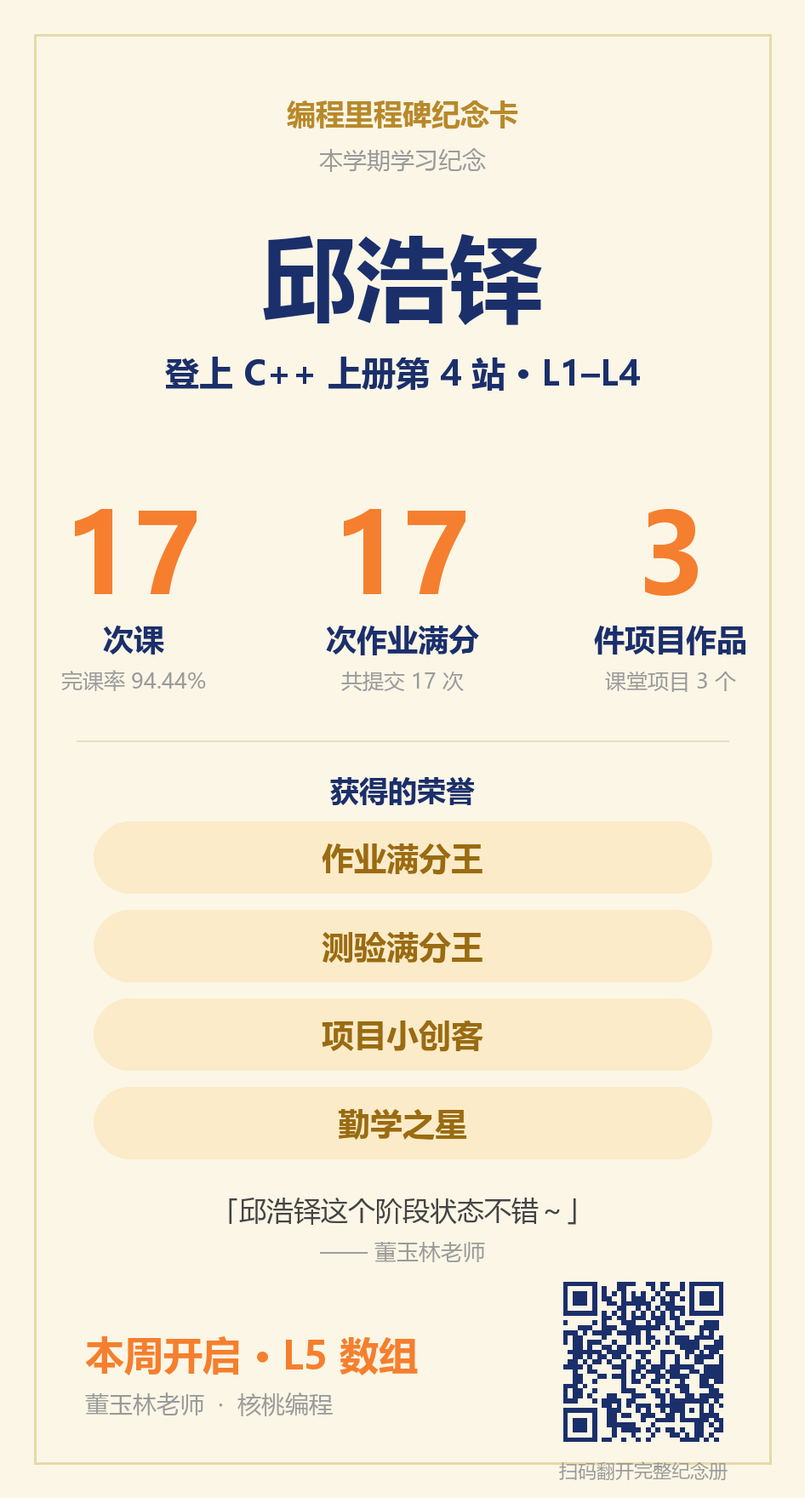
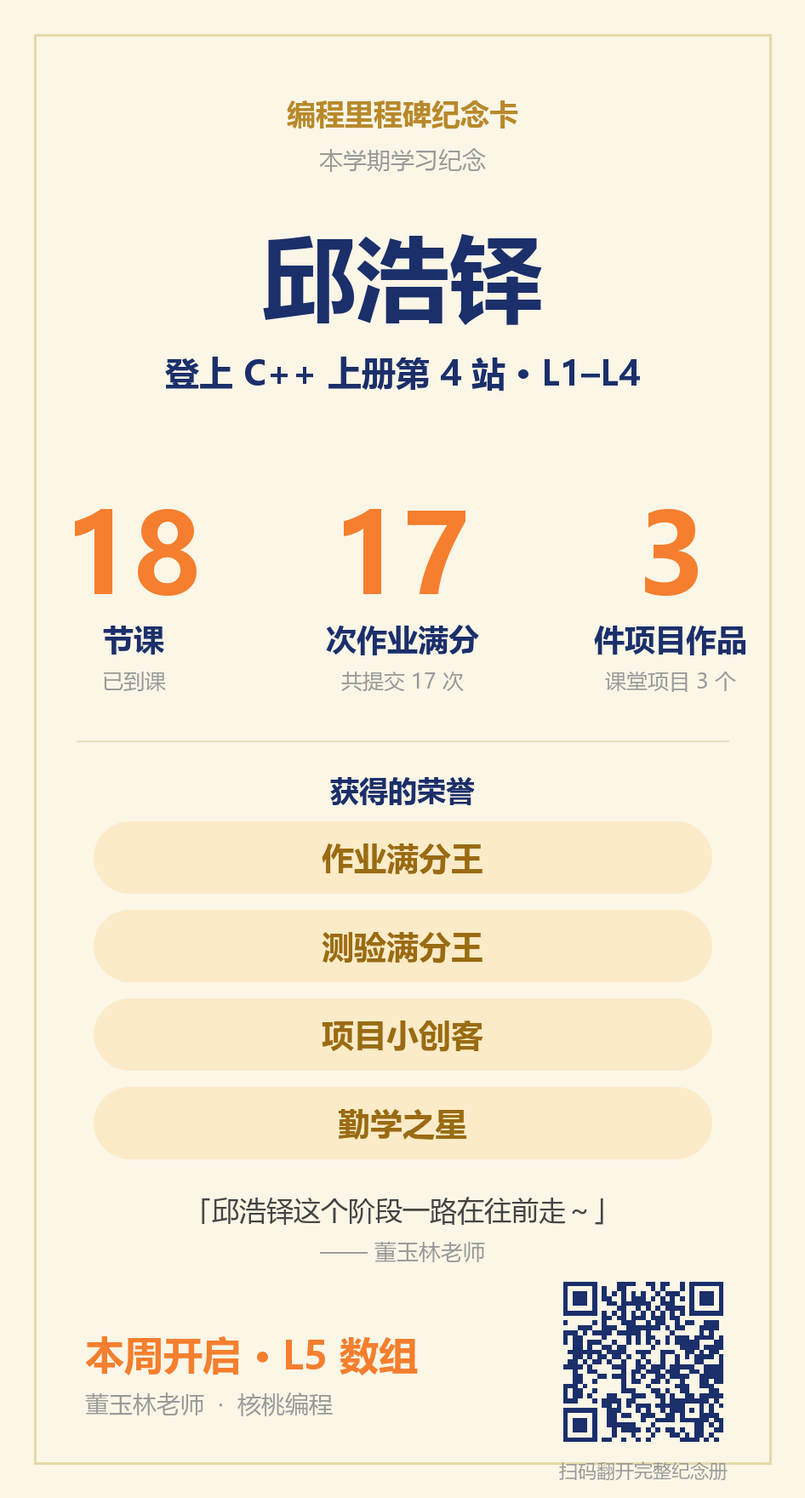
有未完课的学员改为展示到课：不再显示完课率和完成节数
老师的话改为「N 节课都已经到课，其中有 X 次作业拿到了满分，还亲手做了 Y 个编程项目作品」，封面、课堂足迹和纪念卡同步改为「N 节课 · 已到课」。

Changed region(s): [[0.2452, 0.7812, 0.7051, 0.8125], [0.092, 0.3438, 0.2452, 0.4688]]

diff --git a/24dc97a574/index.html b/24dc97a574/index.html
@@ -40,15 +40,15 @@ h2{font-size:28px;line-height:1.3;font-weight:800;margin-bottom:12px}
 <div class="sub" style="color:var(--gold);margin:0 0 12px">致 邱浩铎 的爸爸妈妈</div>
 <h1>邱浩铎的<br>第一个<em>编程里程碑</em></h1><div class="rule"></div>
 <div class="sub" style="margin:0">本学期学习纪念</div>
-<div class="stats"><div class="stat"><b>17</b><span>次课完成</span></div><div class="stat"><b>4</b><span>个单元</span></div><div class="stat"><b>3</b><span>件项目作品</span></div></div>
+<div class="stats"><div class="stat"><b>18</b><span>节课已到课</span></div><div class="stat"><b>4</b><span>个单元</span></div><div class="stat"><b>3</b><span>件项目作品</span></div></div>
 <div class="sub" style="margin-top:28px"><b style="color:#fff">董玉林老师</b><br>为邱浩铎整理了这段学习时光</div><div class="hint">上滑翻开 ⌄</div></section><section class="page"><div class="tag">01</div><div class="no">01 · 一路走来</div>
 <h2>邱浩铎的<br>课堂足迹</h2><div class="sub">每一格是一节课：金色＝作业满分，橙色＝已提交，虚线＝到课。</div>
 <div class="grid"><div class="dot g">L1·1<small>满分</small></div><div class="dot g">L1·2<small>满分</small></div><div class="dot g">L1·3<small>满分</small></div><div class="dot g">L1·4<small>满分</small></div><div class="dot g">L2·1<small>满分</small></div><div class="dot g">L2·2<small>满分</small></div><div class="dot g">L2·3<small>满分</small></div><div class="dot g">L2·4<small>满分</small></div><div class="dot g">L2·5<small>满分</small></div><div class="dot g">L3·1<small>满分</small></div><div class="dot g">L3·2<small>满分</small></div><div class="dot g">L3·4<small>满分</small></div><div class="dot g">L3·5<small>满分</small></div><div class="dot g">L3·6<small>满分</small></div><div class="dot g">L4·1<small>满分</small></div><div class="dot">L4·2<small>到课</small></div><div class="dot g">L4·3<small>满分</small></div><div class="dot g">L4·4<small>满分</small></div></div>
 <div class="legend"><span>🟨 满分</span><span>🟧 已提交</span><span>⬜ 到课</span></div>
-<div class="stats"><div class="stat"><b>17</b><span>次课完成<br>完课率 94.44%</span></div><div class="stat"><b>17</b><span>份作业满分<br>共提交 17 份</span></div><div class="stat"><b>22</b><span>小时<br>累计学习</span></div></div><div class="hint">⌄</div></section><section class="page"><div class="tag">02</div><div class="no">02 · 学会的本领</div><h2>学会的4项<br>新本领</h2><div class="card"><i>💬</i><div><b>让电脑按步骤「开口说话」</b><p>写下一行行指令，电脑就照着顺序执行、把结果显示出来</p></div></div><div class="card"><i>🔀</i><div><b>让程序自己做判断</b><p>「如果……就……否则……」，程序会根据情况自己选择</p></div></div><div class="card"><i>🔁</i><div><b>让电脑重复做事</b><p>一句循环，电脑就能做 100 遍也不嫌累——编程最神奇的地方</p></div></div><div class="card"><i>🧮</i><div><b>让电脑记住一排数据</b><p>用数组一次存下很多数，再逐个处理，是通往算法的第一步</p></div></div><div class="hint">⌄</div></section><section class="page"><div class="tag">03</div><div class="no">03 · 动手实践</div><h2>作业、测验<br>和项目</h2>
+<div class="stats"><div class="stat"><b>18</b><span>节课<br>已到课</span></div><div class="stat"><b>17</b><span>份作业满分<br>共提交 17 份</span></div><div class="stat"><b>22</b><span>小时<br>累计学习</span></div></div><div class="hint">⌄</div></section><section class="page"><div class="tag">02</div><div class="no">02 · 学会的本领</div><h2>学会的4项<br>新本领</h2><div class="card"><i>💬</i><div><b>让电脑按步骤「开口说话」</b><p>写下一行行指令，电脑就照着顺序执行、把结果显示出来</p></div></div><div class="card"><i>🔀</i><div><b>让程序自己做判断</b><p>「如果……就……否则……」，程序会根据情况自己选择</p></div></div><div class="card"><i>🔁</i><div><b>让电脑重复做事</b><p>一句循环，电脑就能做 100 遍也不嫌累——编程最神奇的地方</p></div></div><div class="card"><i>🧮</i><div><b>让电脑记住一排数据</b><p>用数组一次存下很多数，再逐个处理，是通往算法的第一步</p></div></div><div class="hint">⌄</div></section><section class="page"><div class="tag">03</div><div class="no">03 · 动手实践</div><h2>作业、测验<br>和项目</h2>
 <div class="card"><i>⌨</i><div><b>17 份课后作业</b><p>其中 17 份拿到满分，每一份都有老师批改反馈。</p></div></div>
 <div class="card"><i>💯</i><div><b>随堂测验</b><p>17 次随堂测验中，首次满分 <b>5</b> 次</p></div></div><div class="card"><i>🧩</i><div><b>3 个课堂项目作品</b><p>在 L1–L4 的项目环节里，亲手把想法做成了能运行的作品。</p></div></div>
-<div class="card"><i>💬</i><div><b>课堂互动 200 条</b><p>连麦接通 17 次，班内互动第 4。</p></div></div><div class="hint">⌄</div></section><section class="page"><div class="tag">04</div><div class="no">04 · 荣誉</div><h2>获得的荣誉</h2><div class="pills"><div class="pill gold"><b>⌨ 作业满分王</b><span>17 份课后作业，全部满分</span></div><div class="pill "><b>💯 测验满分王</b><span>17 次随堂测验，5 次首次满分</span></div><div class="pill "><b>🛠 项目小创客</b><span>亲手完成 3 个课堂项目作品</span></div><div class="pill "><b>⏱ 勤学之星</b><span>累计学习 22.0 小时，班内第 3</span></div></div><div class="sub">荣誉依据本期学情数据自动评定</div><div class="hint">⌄</div></section><section class="page"><div class="tag">05</div><div class="no">05 · 本周起</div><h2>C++ 学习路线</h2><div class="sub">上册 · 趣味C++Ⅰ · 基础语法　本周起进入 L5</div><div class="route" style="margin-top:20px"><div class="st ok"><b>✓ L1 变量与输出</b><span>已学完</span></div><div class="st ok"><b>✓ L2 条件分支</b><span>已学完</span></div><div class="st ok"><b>✓ L3 嵌套循环</b><span>已学完</span></div><div class="st ok"><b>✓ L4 数组初识</b><span>已学</span></div><div class="st now"><b>L5 数组 · OJ 解题</b><span>📍 本周开始</span></div><div class="st"><b>L6 调试 · 函数</b><span>下一站 · 难点语法 · 算法 · OJ</span></div></div><div class="hint">⌄</div></section><section class="page"><div class="tag">06</div><div class="no">06 · 老师想对您说</div><div class="note"><p>邱浩铎这个阶段状态不错～18 节课里完成了 17 节，基本没有落下。</p><p>17 次课后作业里有 17 次拿到满分、随堂测验首次满分 5 次、还亲手做完了 3 个课堂项目作品，每一步都有老师的批改和反馈👏</p><p>本周起开始学习 L5（数组 · OJ 解题），内容会更有挑战一些，卡住的地方我会盯着，差哪补哪。这条路我陪孩子一起走，有什么想法随时跟我说哈💪</p></div><div class="sign">董玉林老师<span>核桃编程</span></div>
+<div class="card"><i>💬</i><div><b>课堂互动 200 条</b><p>连麦接通 17 次，班内互动第 4。</p></div></div><div class="hint">⌄</div></section><section class="page"><div class="tag">04</div><div class="no">04 · 荣誉</div><h2>获得的荣誉</h2><div class="pills"><div class="pill gold"><b>⌨ 作业满分王</b><span>17 份课后作业，全部满分</span></div><div class="pill "><b>💯 测验满分王</b><span>17 次随堂测验，5 次首次满分</span></div><div class="pill "><b>🛠 项目小创客</b><span>亲手完成 3 个课堂项目作品</span></div><div class="pill "><b>⏱ 勤学之星</b><span>累计学习 22.0 小时，班内第 3</span></div></div><div class="sub">荣誉依据本期学情数据自动评定</div><div class="hint">⌄</div></section><section class="page"><div class="tag">05</div><div class="no">05 · 本周起</div><h2>C++ 学习路线</h2><div class="sub">上册 · 趣味C++Ⅰ · 基础语法　本周起进入 L5</div><div class="route" style="margin-top:20px"><div class="st ok"><b>✓ L1 变量与输出</b><span>已学完</span></div><div class="st ok"><b>✓ L2 条件分支</b><span>已学完</span></div><div class="st ok"><b>✓ L3 嵌套循环</b><span>已学完</span></div><div class="st ok"><b>✓ L4 数组初识</b><span>已学</span></div><div class="st now"><b>L5 数组 · OJ 解题</b><span>📍 本周开始</span></div><div class="st"><b>L6 调试 · 函数</b><span>下一站 · 难点语法 · 算法 · OJ</span></div></div><div class="hint">⌄</div></section><section class="page"><div class="tag">06</div><div class="no">06 · 老师想对您说</div><div class="note"><p>邱浩铎这个阶段一路在往前走～18 节课都已经到课，其中有 17 次作业拿到了满分，还亲手做了 3 个编程项目作品，每一步都有老师的批改和反馈👏</p><p>本周起开始学习 L5（数组 · OJ 解题），内容会更有挑战一些，卡住的地方我会盯着，差哪补哪。这条路我陪孩子一起走，有什么想法随时跟我说哈💪</p></div><div class="sign">董玉林老师<span>核桃编程</span></div>
 <div class="ask">今晚，不妨请邱浩铎给您讲讲：<br><b>「这学期做的项目作品，是怎么做出来的？」</b><br>孩子讲得出来，才是真的学会了。</div><div class="hint">⌄</div></section><section class="page dark final"><div class="tag">07</div><div class="no" style="color:var(--gold)">07 · 留个纪念</div><img src="card.png" alt="纪念卡"><p>长按图片保存 · 发给爷爷奶奶也看看<br><br>邱浩铎，下一站见！ · 核桃编程</p></section></div><script>const w=document.getElementById('wrap'),bar=document.querySelector('.prog i'),ps=[...document.querySelectorAll('.page')];
 w.addEventListener('scroll',()=>{bar.style.width=Math.min(100,(w.scrollTop/(w.scrollHeight-w.clientHeight))*100)+'%'});
 document.addEventListener('keydown',e=>{if(['ArrowDown','ArrowRight',' '].includes(e.key))w.scrollBy(0,innerHeight);if(['ArrowUp','ArrowLeft'].includes(e.key))w.scrollBy(0,-innerHeight)});</script></body></html>

diff --git a/d82af923c9/index.html b/d82af923c9/index.html
@@ -40,15 +40,15 @@ h2{font-size:28px;line-height:1.3;font-weight:800;margin-bottom:12px}
 <div class="sub" style="color:var(--gold);margin:0 0 12px">致 唐嫣茹 的爸爸妈妈</div>
 <h1>唐嫣茹的<br>第一个<em>编程里程碑</em></h1><div class="rule"></div>
 <div class="sub" style="margin:0">本学期学习纪念</div>
-<div class="stats"><div class="stat"><b>14</b><span>次课完成</span></div><div class="stat"><b>4</b><span>个单元</span></div><div class="stat"><b>3</b><span>件项目作品</span></div></div>
+<div class="stats"><div class="stat"><b>17</b><span>节课已到课</span></div><div class="stat"><b>4</b><span>个单元</span></div><div class="stat"><b>3</b><span>件项目作品</span></div></div>
 <div class="sub" style="margin-top:28px"><b style="color:#fff">董玉林老师</b><br>为唐嫣茹整理了这段学习时光</div><div class="hint">上滑翻开 ⌄</div></section><section class="page"><div class="tag">01</div><div class="no">01 · 一路走来</div>
 <h2>唐嫣茹的<br>课堂足迹</h2><div class="sub">每一格是一节课：金色＝作业满分，橙色＝已提交，虚线＝到课。</div>
 <div class="grid"><div class="dot g">L1·1<small>满分</small></div><div class="dot g">L1·2<small>满分</small></div><div class="dot g">L1·3<small>满分</small></div><div class="dot g">L1·4<small>满分</small></div><div class="dot g">L2·1<small>满分</small></div><div class="dot g">L2·2<small>满分</small></div><div class="dot g">L2·3<small>满分</small></div><div class="dot">L2·4<small>到课</small></div><div class="dot g">L3·1<small>满分</small></div><div class="dot g">L3·2<small>满分</small></div><div class="dot g">L3·3<small>满分</small></div><div class="dot g">L3·4<small>满分</small></div><div class="dot g">L3·5<small>满分</small></div><div class="dot">L4·1<small>到课</small></div><div class="dot g">L4·2<small>满分</small></div><div class="dot">L4·3<small>到课</small></div><div class="dot g">L4·4<small>满分</small></div></div>
 <div class="legend"><span>🟨 满分</span><span>🟧 已提交</span><span>⬜ 到课</span></div>
-<div class="stats"><div class="stat"><b>14</b><span>次课完成<br>完课率 77.78%</span></div><div class="stat"><b>14</b><span>份作业满分<br>共提交 14 份</span></div><div class="stat"><b>13.4</b><span>小时<br>累计学习</span></div></div><div class="hint">⌄</div></section><section class="page"><div class="tag">02</div><div class="no">02 · 学会的本领</div><h2>学会的4项<br>新本领</h2><div class="card"><i>💬</i><div><b>让电脑按步骤「开口说话」</b><p>写下一行行指令，电脑就照着顺序执行、把结果显示出来</p></div></div><div class="card"><i>🔀</i><div><b>让程序自己做判断</b><p>「如果……就……否则……」，程序会根据情况自己选择</p></div></div><div class="card"><i>🔁</i><div><b>让电脑重复做事</b><p>一句循环，电脑就能做 100 遍也不嫌累——编程最神奇的地方</p></div></div><div class="card"><i>🧮</i><div><b>让电脑记住一排数据</b><p>用数组一次存下很多数，再逐个处理，是通往算法的第一步</p></div></div><div class="hint">⌄</div></section><section class="page"><div class="tag">03</div><div class="no">03 · 动手实践</div><h2>作业、测验<br>和项目</h2>
+<div class="stats"><div class="stat"><b>17</b><span>节课<br>已到课</span></div><div class="stat"><b>14</b><span>份作业满分<br>共提交 14 份</span></div><div class="stat"><b>13.4</b><span>小时<br>累计学习</span></div></div><div class="hint">⌄</div></section><section class="page"><div class="tag">02</div><div class="no">02 · 学会的本领</div><h2>学会的4项<br>新本领</h2><div class="card"><i>💬</i><div><b>让电脑按步骤「开口说话」</b><p>写下一行行指令，电脑就照着顺序执行、把结果显示出来</p></div></div><div class="card"><i>🔀</i><div><b>让程序自己做判断</b><p>「如果……就……否则……」，程序会根据情况自己选择</p></div></div><div class="card"><i>🔁</i><div><b>让电脑重复做事</b><p>一句循环，电脑就能做 100 遍也不嫌累——编程最神奇的地方</p></div></div><div class="card"><i>🧮</i><div><b>让电脑记住一排数据</b><p>用数组一次存下很多数，再逐个处理，是通往算法的第一步</p></div></div><div class="hint">⌄</div></section><section class="page"><div class="tag">03</div><div class="no">03 · 动手实践</div><h2>作业、测验<br>和项目</h2>
 <div class="card"><i>⌨</i><div><b>14 份课后作业</b><p>其中 14 份拿到满分，每一份都有老师批改反馈。</p></div></div>
 <div class="card"><i>💯</i><div><b>随堂测验</b><p>14 次随堂测验中，首次满分 <b>5</b> 次</p></div></div><div class="card"><i>🧩</i><div><b>3 个课堂项目作品</b><p>在 L1–L4 的项目环节里，亲手把想法做成了能运行的作品。</p></div></div>
-<div class="card"><i>💬</i><div><b>课堂互动 205 条</b><p>连麦接通 9 次，班内互动第 3。</p></div></div><div class="hint">⌄</div></section><section class="page"><div class="tag">04</div><div class="no">04 · 荣誉</div><h2>获得的荣誉</h2><div class="pills"><div class="pill gold"><b>⌨ 作业满分王</b><span>14 份课后作业，全部满分</span></div><div class="pill "><b>💯 测验满分王</b><span>14 次随堂测验，5 次首次满分</span></div><div class="pill "><b>🛠 项目小创客</b><span>亲手完成 3 个课堂项目作品</span></div><div class="pill "><b>🙋 互动达人</b><span>课堂互动 205 条，班内第 3</span></div></div><div class="sub">荣誉依据本期学情数据自动评定</div><div class="hint">⌄</div></section><section class="page"><div class="tag">05</div><div class="no">05 · 本周起</div><h2>C++ 学习路线</h2><div class="sub">上册 · 趣味C++Ⅰ · 基础语法　本周起进入 L5</div><div class="route" style="margin-top:20px"><div class="st ok"><b>✓ L1 变量与输出</b><span>已学完</span></div><div class="st ok"><b>✓ L2 条件分支</b><span>已学</span></div><div class="st ok"><b>✓ L3 嵌套循环</b><span>已学完</span></div><div class="st ok"><b>✓ L4 数组初识</b><span>已学</span></div><div class="st now"><b>L5 数组 · OJ 解题</b><span>📍 本周开始</span></div><div class="st"><b>L6 调试 · 函数</b><span>下一站 · 难点语法 · 算法 · OJ</span></div></div><div class="hint">⌄</div></section><section class="page"><div class="tag">06</div><div class="no">06 · 老师想对您说</div><div class="note"><p>唐嫣茹这个阶段一路在往前走～18 节课里完成了 14 节，后面我会陪着一起把进度稳稳跟上。</p><p>14 次课后作业里有 14 次拿到满分、随堂测验首次满分 5 次、还亲手做完了 3 个课堂项目作品，每一步都有老师的批改和反馈👏</p><p>本周起开始学习 L5（数组 · OJ 解题），内容会更有挑战一些，卡住的地方我会盯着，差哪补哪。这条路我陪孩子一起走，有什么想法随时跟我说哈💪</p></div><div class="sign">董玉林老师<span>核桃编程</span></div>
+<div class="card"><i>💬</i><div><b>课堂互动 205 条</b><p>连麦接通 9 次，班内互动第 3。</p></div></div><div class="hint">⌄</div></section><section class="page"><div class="tag">04</div><div class="no">04 · 荣誉</div><h2>获得的荣誉</h2><div class="pills"><div class="pill gold"><b>⌨ 作业满分王</b><span>14 份课后作业，全部满分</span></div><div class="pill "><b>💯 测验满分王</b><span>14 次随堂测验，5 次首次满分</span></div><div class="pill "><b>🛠 项目小创客</b><span>亲手完成 3 个课堂项目作品</span></div><div class="pill "><b>🙋 互动达人</b><span>课堂互动 205 条，班内第 3</span></div></div><div class="sub">荣誉依据本期学情数据自动评定</div><div class="hint">⌄</div></section><section class="page"><div class="tag">05</div><div class="no">05 · 本周起</div><h2>C++ 学习路线</h2><div class="sub">上册 · 趣味C++Ⅰ · 基础语法　本周起进入 L5</div><div class="route" style="margin-top:20px"><div class="st ok"><b>✓ L1 变量与输出</b><span>已学完</span></div><div class="st ok"><b>✓ L2 条件分支</b><span>已学</span></div><div class="st ok"><b>✓ L3 嵌套循环</b><span>已学完</span></div><div class="st ok"><b>✓ L4 数组初识</b><span>已学</span></div><div class="st now"><b>L5 数组 · OJ 解题</b><span>📍 本周开始</span></div><div class="st"><b>L6 调试 · 函数</b><span>下一站 · 难点语法 · 算法 · OJ</span></div></div><div class="hint">⌄</div></section><section class="page"><div class="tag">06</div><div class="no">06 · 老师想对您说</div><div class="note"><p>唐嫣茹这个阶段一路在往前走～17 节课都已经到课，其中有 14 次作业拿到了满分，还亲手做了 3 个编程项目作品，每一步都有老师的批改和反馈👏</p><p>本周起开始学习 L5（数组 · OJ 解题），内容会更有挑战一些，卡住的地方我会盯着，差哪补哪。这条路我陪孩子一起走，有什么想法随时跟我说哈💪</p></div><div class="sign">董玉林老师<span>核桃编程</span></div>
 <div class="ask">今晚，不妨请唐嫣茹给您讲讲：<br><b>「这学期做的项目作品，是怎么做出来的？」</b><br>孩子讲得出来，才是真的学会了。</div><div class="hint">⌄</div></section><section class="page dark final"><div class="tag">07</div><div class="no" style="color:var(--gold)">07 · 留个纪念</div><img src="card.png" alt="纪念卡"><p>长按图片保存 · 发给爷爷奶奶也看看<br><br>唐嫣茹，下一站见！ · 核桃编程</p></section></div><script>const w=document.getElementById('wrap'),bar=document.querySelector('.prog i'),ps=[...document.querySelectorAll('.page')];
 w.addEventListener('scroll',()=>{bar.style.width=Math.min(100,(w.scrollTop/(w.scrollHeight-w.clientHeight))*100)+'%'});
 document.addEventListener('keydown',e=>{if(['ArrowDown','ArrowRight',' '].includes(e.key))w.scrollBy(0,innerHeight);if(['ArrowUp','ArrowLeft'].includes(e.key))w.scrollBy(0,-innerHeight)});</script></body></html>

diff --git a/64ebe63ef0/index.html b/64ebe63ef0/index.html
@@ -40,15 +40,15 @@ h2{font-size:28px;line-height:1.3;font-weight:800;margin-bottom:12px}
 <div class="sub" style="color:var(--gold);margin:0 0 12px">致 康宇谦 的爸爸妈妈</div>
 <h1>康宇谦的<br>第一个<em>编程里程碑</em></h1><div class="rule"></div>
 <div class="sub" style="margin:0">本学期学习纪念</div>
-<div class="stats"><div class="stat"><b>17</b><span>次课完成</span></div><div class="stat"><b>4</b><span>个单元</span></div><div class="stat"><b>4</b><span>件项目作品</span></div></div>
+<div class="stats"><div class="stat"><b>17</b><span>节课已到课</span></div><div class="stat"><b>4</b><span>个单元</span></div><div class="stat"><b>4</b><span>件项目作品</span></div></div>
 <div class="sub" style="margin-top:28px"><b style="color:#fff">董玉林老师</b><br>为康宇谦整理了这段学习时光</div><div class="hint">上滑翻开 ⌄</div></section><section class="page"><div class="tag">01</div><div class="no">01 · 一路走来</div>
 <h2>康宇谦的<br>课堂足迹</h2><div class="sub">每一格是一节课：金色＝作业满分，橙色＝已提交，虚线＝到课。</div>
 <div class="grid"><div class="dot g">L1·1<small>满分</small></div><div class="dot g">L1·2<small>满分</small></div><div class="dot g">L1·3<small>满分</small></div><div class="dot g">L1·4<small>满分</small></div><div class="dot g">L2·1<small>满分</small></div><div class="dot g">L2·2<small>满分</small></div><div class="dot g">L2·3<small>满分</small></div><div class="dot g">L2·4<small>满分</small></div><div class="dot g">L2·5<small>满分</small></div><div class="dot g">L3·1<small>满分</small></div><div class="dot g">L3·2<small>满分</small></div><div class="dot g">L3·3<small>满分</small></div><div class="dot g">L3·4<small>满分</small></div><div class="dot g">L3·5<small>满分</small></div><div class="dot g">L4·1<small>满分</small></div><div class="dot g">L4·2<small>满分</small></div><div class="dot g">L4·4<small>满分</small></div></div>
 <div class="legend"><span>🟨 满分</span><span>🟧 已提交</span><span>⬜ 到课</span></div>
-<div class="stats"><div class="stat"><b>17</b><span>次课完成<br>完课率 94.44%</span></div><div class="stat"><b>17</b><span>份作业满分<br>共提交 17 份</span></div><div class="stat"><b>15.3</b><span>小时<br>累计学习</span></div></div><div class="hint">⌄</div></section><section class="page"><div class="tag">02</div><div class="no">02 · 学会的本领</div><h2>学会的4项<br>新本领</h2><div class="card"><i>💬</i><div><b>让电脑按步骤「开口说话」</b><p>写下一行行指令，电脑就照着顺序执行、把结果显示出来</p></div></div><div class="card"><i>🔀</i><div><b>让程序自己做判断</b><p>「如果……就……否则……」，程序会根据情况自己选择</p></div></div><div class="card"><i>🔁</i><div><b>让电脑重复做事</b><p>一句循环，电脑就能做 100 遍也不嫌累——编程最神奇的地方</p></div></div><div class="card"><i>🧮</i><div><b>让电脑记住一排数据</b><p>用数组一次存下很多数，再逐个处理，是通往算法的第一步</p></div></div><div class="hint">⌄</div></section><section class="page"><div class="tag">03</div><div class="no">03 · 动手实践</div><h2>作业、测验<br>和项目</h2>
+<div class="stats"><div class="stat"><b>17</b><span>节课<br>已到课</span></div><div class="stat"><b>17</b><span>份作业满分<br>共提交 17 份</span></div><div class="stat"><b>15.3</b><span>小时<br>累计学习</span></div></div><div class="hint">⌄</div></section><section class="page"><div class="tag">02</div><div class="no">02 · 学会的本领</div><h2>学会的4项<br>新本领</h2><div class="card"><i>💬</i><div><b>让电脑按步骤「开口说话」</b><p>写下一行行指令，电脑就照着顺序执行、把结果显示出来</p></div></div><div class="card"><i>🔀</i><div><b>让程序自己做判断</b><p>「如果……就……否则……」，程序会根据情况自己选择</p></div></div><div class="card"><i>🔁</i><div><b>让电脑重复做事</b><p>一句循环，电脑就能做 100 遍也不嫌累——编程最神奇的地方</p></div></div><div class="card"><i>🧮</i><div><b>让电脑记住一排数据</b><p>用数组一次存下很多数，再逐个处理，是通往算法的第一步</p></div></div><div class="hint">⌄</div></section><section class="page"><div class="tag">03</div><div class="no">03 · 动手实践</div><h2>作业、测验<br>和项目</h2>
 <div class="card"><i>⌨</i><div><b>17 份课后作业</b><p>其中 17 份拿到满分，每一份都有老师批改反馈。</p></div></div>
 <div class="card"><i>💯</i><div><b>随堂测验</b><p>17 次随堂测验中，首次满分 <b>14</b> 次</p></div></div><div class="card"><i>🧩</i><div><b>4 个课堂项目作品</b><p>在 L1–L4 的项目环节里，亲手把想法做成了能运行的作品。</p></div></div>
-<div class="card"><i>💬</i><div><b>课堂互动 7 条</b><p>连麦接通 5 次，班内互动第 13。</p></div></div><div class="hint">⌄</div></section><section class="page"><div class="tag">04</div><div class="no">04 · 荣誉</div><h2>获得的荣誉</h2><div class="pills"><div class="pill gold"><b>⌨ 作业满分王</b><span>17 份课后作业，全部满分</span></div><div class="pill "><b>💯 测验满分王</b><span>17 次随堂测验，14 次首次满分</span></div><div class="pill "><b>🛠 项目小创客</b><span>亲手完成 4 个课堂项目作品</span></div></div><div class="sub">荣誉依据本期学情数据自动评定</div><div class="hint">⌄</div></section><section class="page"><div class="tag">05</div><div class="no">05 · 本周起</div><h2>C++ 学习路线</h2><div class="sub">上册 · 趣味C++Ⅰ · 基础语法　本周起进入 L5</div><div class="route" style="margin-top:20px"><div class="st ok"><b>✓ L1 变量与输出</b><span>已学完</span></div><div class="st ok"><b>✓ L2 条件分支</b><span>已学完</span></div><div class="st ok"><b>✓ L3 嵌套循环</b><span>已学完</span></div><div class="st ok"><b>✓ L4 数组初识</b><span>已学</span></div><div class="st now"><b>L5 数组 · OJ 解题</b><span>📍 本周开始</span></div><div class="st"><b>L6 调试 · 函数</b><span>下一站 · 难点语法 · 算法 · OJ</span></div></div><div class="hint">⌄</div></section><section class="page"><div class="tag">06</div><div class="no">06 · 老师想对您说</div><div class="note"><p>康宇谦这个阶段状态不错～18 节课里完成了 17 节，基本没有落下。</p><p>17 次课后作业里有 17 次拿到满分、随堂测验首次满分 14 次、还亲手做完了 4 个课堂项目作品，每一步都有老师的批改和反馈👏</p><p>本周起开始学习 L5（数组 · OJ 解题），内容会更有挑战一些，卡住的地方我会盯着，差哪补哪。这条路我陪孩子一起走，有什么想法随时跟我说哈💪</p></div><div class="sign">董玉林老师<span>核桃编程</span></div>
+<div class="card"><i>💬</i><div><b>课堂互动 7 条</b><p>连麦接通 5 次，班内互动第 13。</p></div></div><div class="hint">⌄</div></section><section class="page"><div class="tag">04</div><div class="no">04 · 荣誉</div><h2>获得的荣誉</h2><div class="pills"><div class="pill gold"><b>⌨ 作业满分王</b><span>17 份课后作业，全部满分</span></div><div class="pill "><b>💯 测验满分王</b><span>17 次随堂测验，14 次首次满分</span></div><div class="pill "><b>🛠 项目小创客</b><span>亲手完成 4 个课堂项目作品</span></div></div><div class="sub">荣誉依据本期学情数据自动评定</div><div class="hint">⌄</div></section><section class="page"><div class="tag">05</div><div class="no">05 · 本周起</div><h2>C++ 学习路线</h2><div class="sub">上册 · 趣味C++Ⅰ · 基础语法　本周起进入 L5</div><div class="route" style="margin-top:20px"><div class="st ok"><b>✓ L1 变量与输出</b><span>已学完</span></div><div class="st ok"><b>✓ L2 条件分支</b><span>已学完</span></div><div class="st ok"><b>✓ L3 嵌套循环</b><span>已学完</span></div><div class="st ok"><b>✓ L4 数组初识</b><span>已学</span></div><div class="st now"><b>L5 数组 · OJ 解题</b><span>📍 本周开始</span></div><div class="st"><b>L6 调试 · 函数</b><span>下一站 · 难点语法 · 算法 · OJ</span></div></div><div class="hint">⌄</div></section><section class="page"><div class="tag">06</div><div class="no">06 · 老师想对您说</div><div class="note"><p>康宇谦这个阶段一路在往前走～17 节课都已经到课，其中有 17 次作业拿到了满分，还亲手做了 4 个编程项目作品，每一步都有老师的批改和反馈👏</p><p>本周起开始学习 L5（数组 · OJ 解题），内容会更有挑战一些，卡住的地方我会盯着，差哪补哪。这条路我陪孩子一起走，有什么想法随时跟我说哈💪</p></div><div class="sign">董玉林老师<span>核桃编程</span></div>
 <div class="ask">今晚，不妨请康宇谦给您讲讲：<br><b>「这学期做的项目作品，是怎么做出来的？」</b><br>孩子讲得出来，才是真的学会了。</div><div class="hint">⌄</div></section><section class="page dark final"><div class="tag">07</div><div class="no" style="color:var(--gold)">07 · 留个纪念</div><img src="card.png" alt="纪念卡"><p>长按图片保存 · 发给爷爷奶奶也看看<br><br>康宇谦，下一站见！ · 核桃编程</p></section></div><script>const w=document.getElementById('wrap'),bar=document.querySelector('.prog i'),ps=[...document.querySelectorAll('.page')];
 w.addEventListener('scroll',()=>{bar.style.width=Math.min(100,(w.scrollTop/(w.scrollHeight-w.clientHeight))*100)+'%'});
 document.addEventListener('keydown',e=>{if(['ArrowDown','ArrowRight',' '].includes(e.key))w.scrollBy(0,innerHeight);if(['ArrowUp','ArrowLeft'].includes(e.key))w.scrollBy(0,-innerHeight)});</script></body></html>

diff --git a/55e7877c76/index.html b/55e7877c76/index.html
@@ -40,15 +40,15 @@ h2{font-size:28px;line-height:1.3;font-weight:800;margin-bottom:12px}
 <div class="sub" style="color:var(--gold);margin:0 0 12px">致 帅帅 的爸爸妈妈</div>
 <h1>帅帅的<br>第一个<em>编程里程碑</em></h1><div class="rule"></div>
 <div class="sub" style="margin:0">本学期学习纪念</div>
-<div class="stats"><div class="stat"><b>10</b><span>次课完成</span></div><div class="stat"><b>4</b><span>个单元</span></div><div class="stat"><b>2</b><span>件项目作品</span></div></div>
+<div class="stats"><div class="stat"><b>16</b><span>节课已到课</span></div><div class="stat"><b>4</b><span>个单元</span></div><div class="stat"><b>2</b><span>件项目作品</span></div></div>
 <div class="sub" style="margin-top:28px"><b style="color:#fff">董玉林老师</b><br>为帅帅整理了这段学习时光</div><div class="hint">上滑翻开 ⌄</div></section><section class="page"><div class="tag">01</div><div class="no">01 · 一路走来</div>
 <h2>帅帅的<br>课堂足迹</h2><div class="sub">每一格是一节课：金色＝作业满分，橙色＝已提交，虚线＝到课。</div>
 <div class="grid"><div class="dot g">L1·1<small>满分</small></div><div class="dot g">L1·2<small>满分</small></div><div class="dot g">L1·3<small>满分</small></div><div class="dot g">L1·4<small>满分</small></div><div class="dot g">L2·1<small>满分</small></div><div class="dot g">L2·2<small>满分</small></div><div class="dot g">L2·3<small>满分</small></div><div class="dot g">L2·4<small>满分</small></div><div class="dot">L2·5<small>到课</small></div><div class="dot">L3·1<small>到课</small></div><div class="dot">L3·2<small>到课</small></div><div class="dot g">L3·4<small>满分</small></div><div class="dot">L3·5<small>到课</small></div><div class="dot">L4·1<small>到课</small></div><div class="dot">L4·3<small>到课</small></div><div class="dot g">L4·4<small>满分</small></div></div>
 <div class="legend"><span>🟨 满分</span><span>🟧 已提交</span><span>⬜ 到课</span></div>
-<div class="stats"><div class="stat"><b>10</b><span>次课完成<br>完课率 58.82%</span></div><div class="stat"><b>10</b><span>份作业满分<br>共提交 10 份</span></div><div class="stat"><b>21.2</b><span>小时<br>累计学习</span></div></div><div class="hint">⌄</div></section><section class="page"><div class="tag">02</div><div class="no">02 · 学会的本领</div><h2>学会的4项<br>新本领</h2><div class="card"><i>💬</i><div><b>让电脑按步骤「开口说话」</b><p>写下一行行指令，电脑就照着顺序执行、把结果显示出来</p></div></div><div class="card"><i>🔀</i><div><b>让程序自己做判断</b><p>「如果……就……否则……」，程序会根据情况自己选择</p></div></div><div class="card"><i>🔁</i><div><b>让电脑重复做事</b><p>一句循环，电脑就能做 100 遍也不嫌累——编程最神奇的地方</p></div></div><div class="card"><i>🧮</i><div><b>让电脑记住一排数据</b><p>用数组一次存下很多数，再逐个处理，是通往算法的第一步</p></div></div><div class="hint">⌄</div></section><section class="page"><div class="tag">03</div><div class="no">03 · 动手实践</div><h2>作业、测验<br>和项目</h2>
+<div class="stats"><div class="stat"><b>16</b><span>节课<br>已到课</span></div><div class="stat"><b>10</b><span>份作业满分<br>共提交 10 份</span></div><div class="stat"><b>21.2</b><span>小时<br>累计学习</span></div></div><div class="hint">⌄</div></section><section class="page"><div class="tag">02</div><div class="no">02 · 学会的本领</div><h2>学会的4项<br>新本领</h2><div class="card"><i>💬</i><div><b>让电脑按步骤「开口说话」</b><p>写下一行行指令，电脑就照着顺序执行、把结果显示出来</p></div></div><div class="card"><i>🔀</i><div><b>让程序自己做判断</b><p>「如果……就……否则……」，程序会根据情况自己选择</p></div></div><div class="card"><i>🔁</i><div><b>让电脑重复做事</b><p>一句循环，电脑就能做 100 遍也不嫌累——编程最神奇的地方</p></div></div><div class="card"><i>🧮</i><div><b>让电脑记住一排数据</b><p>用数组一次存下很多数，再逐个处理，是通往算法的第一步</p></div></div><div class="hint">⌄</div></section><section class="page"><div class="tag">03</div><div class="no">03 · 动手实践</div><h2>作业、测验<br>和项目</h2>
 <div class="card"><i>⌨</i><div><b>10 份课后作业</b><p>其中 10 份拿到满分，每一份都有老师批改反馈。</p></div></div>
 <div class="card"><i>💯</i><div><b>随堂测验</b><p>已完成 <b>11</b> 次随堂测验，继续冲满分</p></div></div><div class="card"><i>🧩</i><div><b>2 个课堂项目作品</b><p>在 L1–L4 的项目环节里，亲手把想法做成了能运行的作品。</p></div></div>
-<div class="card"><i>💬</i><div><b>课堂互动 177 条</b><p>连麦接通 42 次，班内互动第 5。</p></div></div><div class="hint">⌄</div></section><section class="page"><div class="tag">04</div><div class="no">04 · 荣誉</div><h2>获得的荣誉</h2><div class="pills"><div class="pill gold"><b>⌨ 作业满分王</b><span>10 份课后作业，全部满分</span></div><div class="pill "><b>🛠 项目小创客</b><span>亲手完成 2 个课堂项目作品</span></div><div class="pill "><b>🚀 一路向前</b><span>已学到 L4，坚持在走</span></div></div><div class="sub">荣誉依据本期学情数据自动评定</div><div class="hint">⌄</div></section><section class="page"><div class="tag">05</div><div class="no">05 · 本周起</div><h2>C++ 学习路线</h2><div class="sub">上册 · 趣味C++Ⅰ · 基础语法　本周起进入 L5</div><div class="route" style="margin-top:20px"><div class="st ok"><b>✓ L1 变量与输出</b><span>已学完</span></div><div class="st ok"><b>✓ L2 条件分支</b><span>已学</span></div><div class="st ok"><b>✓ L3 嵌套循环</b><span>已学</span></div><div class="st ok"><b>✓ L4 数组初识</b><span>已学</span></div><div class="st now"><b>L5 数组 · OJ 解题</b><span>📍 本周开始</span></div><div class="st"><b>L6 调试 · 函数</b><span>下一站 · 难点语法 · 算法 · OJ</span></div></div><div class="hint">⌄</div></section><section class="page"><div class="tag">06</div><div class="no">06 · 老师想对您说</div><div class="note"><p>帅帅这个阶段一路在往前走～17 节课里完成了 10 节，后面我会陪着一起把进度稳稳跟上。</p><p>10 次课后作业里有 10 次拿到满分、完成了 11 次随堂测验、还亲手做完了 2 个课堂项目作品，每一步都有老师的批改和反馈👏</p><p>本周起开始学习 L5（数组 · OJ 解题），内容会更有挑战一些，卡住的地方我会盯着，差哪补哪。这条路我陪孩子一起走，有什么想法随时跟我说哈💪</p></div><div class="sign">董玉林老师<span>核桃编程</span></div>
+<div class="card"><i>💬</i><div><b>课堂互动 177 条</b><p>连麦接通 42 次，班内互动第 5。</p></div></div><div class="hint">⌄</div></section><section class="page"><div class="tag">04</div><div class="no">04 · 荣誉</div><h2>获得的荣誉</h2><div class="pills"><div class="pill gold"><b>⌨ 作业满分王</b><span>10 份课后作业，全部满分</span></div><div class="pill "><b>🛠 项目小创客</b><span>亲手完成 2 个课堂项目作品</span></div><div class="pill "><b>🚀 一路向前</b><span>已学到 L4，坚持在走</span></div></div><div class="sub">荣誉依据本期学情数据自动评定</div><div class="hint">⌄</div></section><section class="page"><div class="tag">05</div><div class="no">05 · 本周起</div><h2>C++ 学习路线</h2><div class="sub">上册 · 趣味C++Ⅰ · 基础语法　本周起进入 L5</div><div class="route" style="margin-top:20px"><div class="st ok"><b>✓ L1 变量与输出</b><span>已学完</span></div><div class="st ok"><b>✓ L2 条件分支</b><span>已学</span></div><div class="st ok"><b>✓ L3 嵌套循环</b><span>已学</span></div><div class="st ok"><b>✓ L4 数组初识</b><span>已学</span></div><div class="st now"><b>L5 数组 · OJ 解题</b><span>📍 本周开始</span></div><div class="st"><b>L6 调试 · 函数</b><span>下一站 · 难点语法 · 算法 · OJ</span></div></div><div class="hint">⌄</div></section><section class="page"><div class="tag">06</div><div class="no">06 · 老师想对您说</div><div class="note"><p>帅帅这个阶段一路在往前走～16 节课都已经到课，其中有 10 次作业拿到了满分，还亲手做了 2 个编程项目作品，每一步都有老师的批改和反馈👏</p><p>本周起开始学习 L5（数组 · OJ 解题），内容会更有挑战一些，卡住的地方我会盯着，差哪补哪。这条路我陪孩子一起走，有什么想法随时跟我说哈💪</p></div><div class="sign">董玉林老师<span>核桃编程</span></div>
 <div class="ask">今晚，不妨请帅帅给您讲讲：<br><b>「这学期做的项目作品，是怎么做出来的？」</b><br>孩子讲得出来，才是真的学会了。</div><div class="hint">⌄</div></section><section class="page dark final"><div class="tag">07</div><div class="no" style="color:var(--gold)">07 · 留个纪念</div><img src="card.png" alt="纪念卡"><p>长按图片保存 · 发给爷爷奶奶也看看<br><br>帅帅，下一站见！ · 核桃编程</p></section></div><script>const w=document.getElementById('wrap'),bar=document.querySelector('.prog i'),ps=[...document.querySelectorAll('.page')];
 w.addEventListener('scroll',()=>{bar.style.width=Math.min(100,(w.scrollTop/(w.scrollHeight-w.clientHeight))*100)+'%'});
 document.addEventListener('keydown',e=>{if(['ArrowDown','ArrowRight',' '].includes(e.key))w.scrollBy(0,innerHeight);if(['ArrowUp','ArrowLeft'].includes(e.key))w.scrollBy(0,-innerHeight)});</script></body></html>
